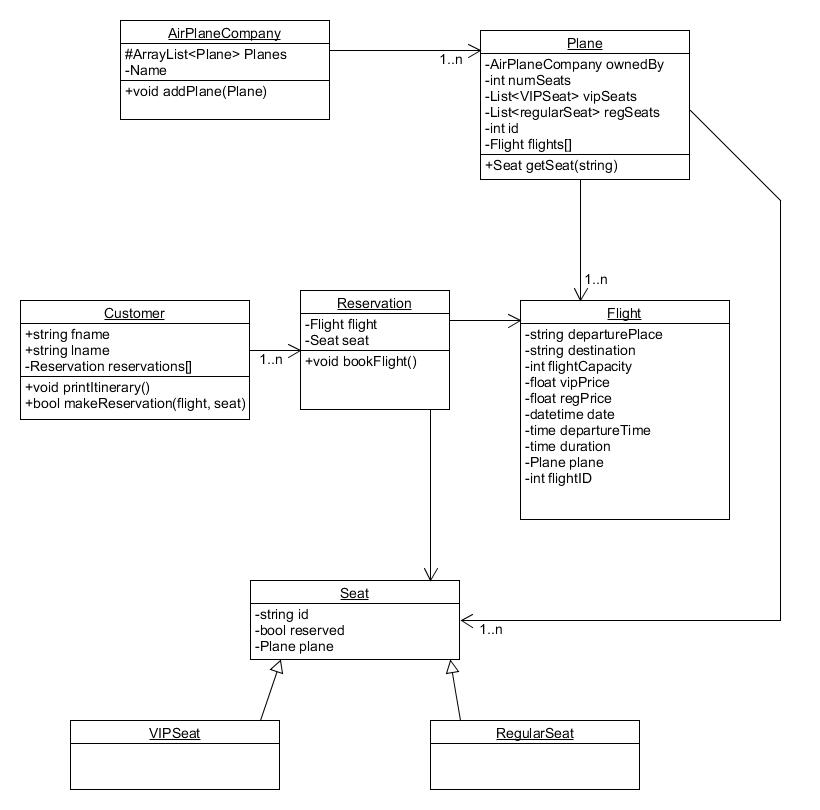
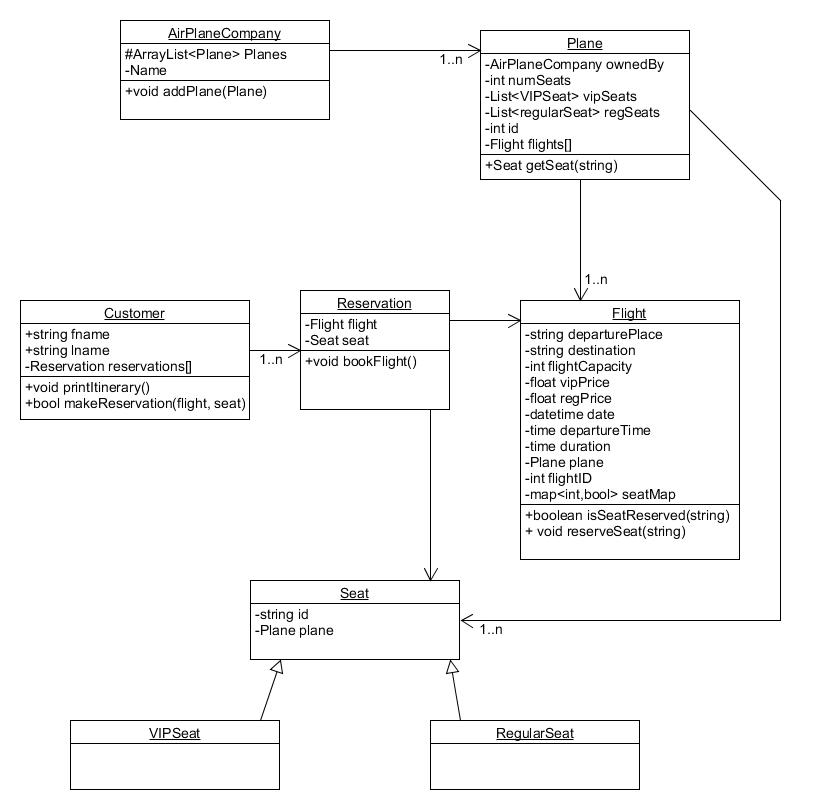
bugs squashed and flights now keep track of which seats are reserved, not the seats themselves. everything is finished

diff --git a/Flight.java b/Flight.java
@@ -1,3 +1,9 @@
+import com.sun.org.apache.regexp.internal.RE;
+
+import java.util.ArrayList;
+import java.util.HashMap;
+import java.util.Hashtable;
+import java.util.Map;
 
 public class Flight {
 	private String departurePlace;
@@ -10,6 +16,8 @@ public class Flight {
 	private String duration;
 	private Plane plane;
 	private int flightID;
+	private Map<String, Boolean> seatReservationMap;
+
 
 	public int getFlightID() {
 		return flightID;
@@ -70,5 +78,26 @@ public class Flight {
 	}
 	public void setPlane(Plane plane) {
 		this.plane = plane;
+		//add map keeping track of which seat is reserved
+		this.seatReservationMap = new Hashtable<String, Boolean>();
+		ArrayList<VIPSeat> vseats = plane.getVipSeats();
+		for(int i = 0; i < vseats.size(); i++)
+		{
+			this.seatReservationMap.put(vseats.get(i).getId(), false);
+		}
+		ArrayList<RegularSeat> rseats = plane.getRegularSeats();
+		for(int i = 0; i < rseats.size(); i++)
+		{
+			this.seatReservationMap.put(rseats.get(i).getId(), false);
+		}
+	}
+
+	public boolean isSeatReserved(String seatID)
+	{
+		return seatReservationMap.get(seatID);
+	}
+	public void reserveSeat(String seatID)
+	{
+		seatReservationMap.put(seatID, true);
 	}
 }

diff --git a/Reservation.java b/Reservation.java
@@ -16,7 +16,7 @@ public class Reservation {
 
     public void bookFlight()
     {
-        seat.setReserved(true);
+        flight.reserveSeat(seat.getId());
     }
 
     @Override
@@ -30,7 +30,8 @@ public class Reservation {
         toPrint += "Destination: " + flight.getDestination() + "\t";
         toPrint += "Duration: " + flight.getDuration() + "\t";
         toPrint += "Seat: " + seat.getId() + "\n";
-        toPrint = "----------------------------------------\n";
+        toPrint += "Carrier: " + flight.getPlane().getOwnedBy().name + "\n";
+        toPrint += "----------------------------------------\n";
         return toPrint;
     }
 }

diff --git a/Seat.java b/Seat.java
@@ -1,13 +1,11 @@
 
 public abstract class Seat {
 	private String id;
-	private boolean reserved;
 	private Plane plane;
 
 	public Seat(String id, Plane plane)
 	{
 		this.setId(id);
-		this.setReserved(false);
 		this.setPlane(plane);
 	}
 
@@ -16,12 +14,6 @@ public abstract class Seat {
 	}
 	public void setId(String id) {
 		this.id = id;
-	}
-	public boolean isReserved() {
-		return reserved;
-	}
-	public void setReserved(boolean reserved) {
-		this.reserved = reserved;
 	}
 	public Plane getPlane() {
 		return plane;

diff --git a/Customer.java b/Customer.java
@@ -27,7 +27,7 @@ public class Customer {
 	public void printItinerary() {
 		for (int i = 0; i < reservations.size(); i++)
 		{
-			reservations.get(i).toString();
+			System.out.print(reservations.get(i).toString());
 		}
 	}
 
@@ -46,7 +46,7 @@ public class Customer {
 			System.out.println("Seat not found");
 			return false;
 		}
-		if (x.isReserved() == true) {
+		if (flight.isSeatReserved(seat) == true) {
 			System.out.println("Seat already reserved");
 			return false;
 		}

diff --git a/Plane.java b/Plane.java
@@ -14,6 +14,10 @@ public class Plane {
 		//make some seats when you make the plane
 		VIPSeat seat = new VIPSeat("3", this);
 		vipSeats.add(seat);
+		seat = new VIPSeat("4", this);
+		vipSeats.add(seat);
+		RegularSeat seatr = new RegularSeat("5", this);
+		regularSeats.add(seatr);
 //		Seat currentSeat;
 //		for (int i = 0;  i < 20; i++)
 //		{
